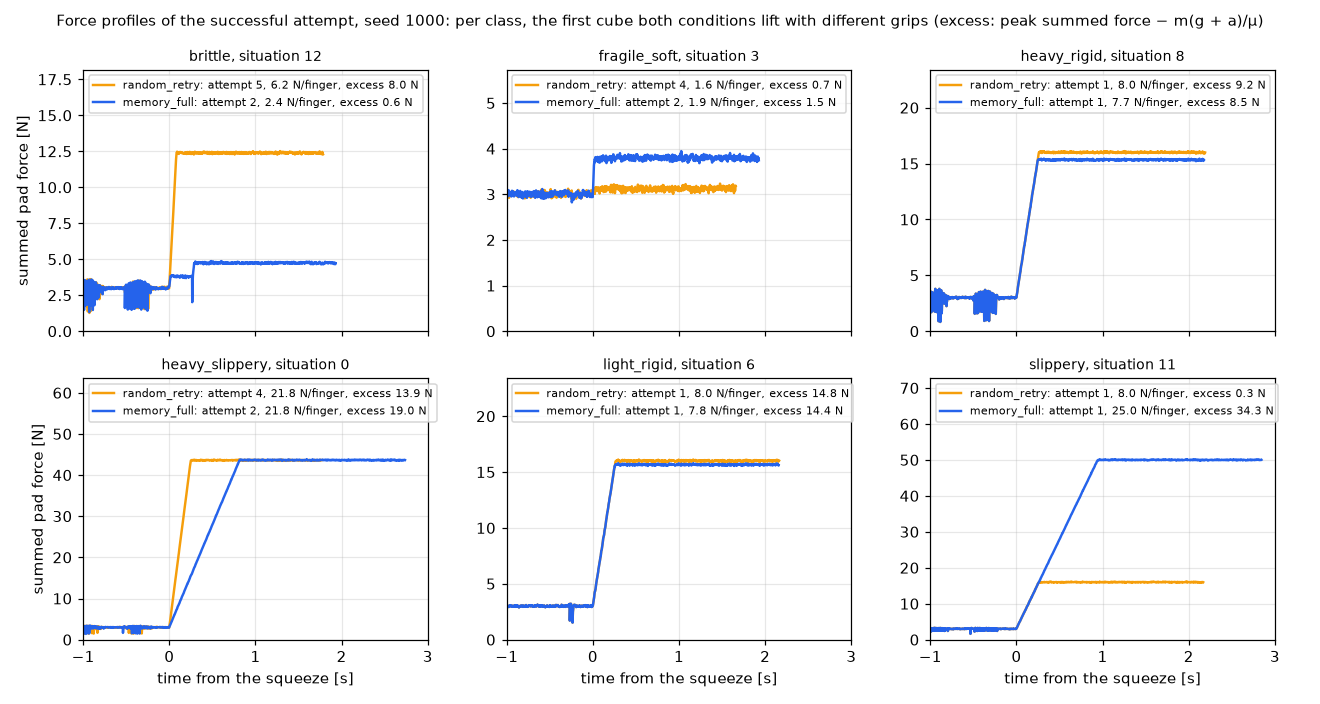
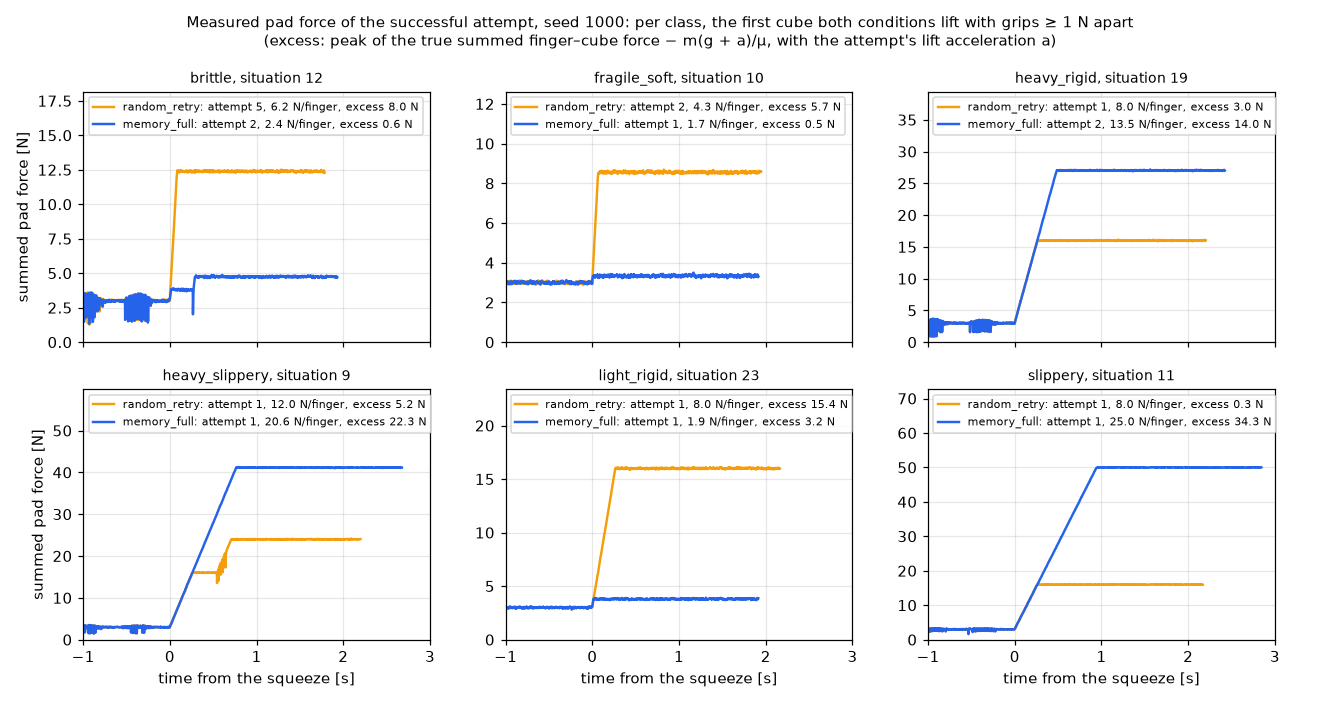
fix: T18 round-1 review: target-1 rule, figure selection, honest wording
Target 1 now needs both bars, as RESULTS §9.1 says (a result between them
is a miss); the frozen benchmark never reached that branch. The force
figure takes cubes whose grips differ by at least 1 N and says its excess
uses the true finger force; RESULTS discloses that the rule came after the
run. Docs: memory_no_probe's first attempt runs naive's θ until a slip
escalation (a correction note, the pre-registration text kept), the
missing bandit_flat row, the bootstrap's independence caveat, the held-out
frozen-vs-fresh gap as not established, and no claim that the bandit
learns. Tests pin the zero-bound verdict, the loose-bar case, and the
frozen scratch bound. All 74 chunks re-ran on this code: results identical.

diff --git a/src/vfa/experiments/run_all.py b/src/vfa/experiments/run_all.py
@@ -46,9 +46,11 @@ situations, mean ± std over seeds) to ``docs/figures/t18_learning_curves.png``.
 **Figures.** ``figures`` re-runs ``random_retry`` and ``memory_full`` on the
 first evaluation seed with every episode saved (``<out>/t18_figures``), checks
 that their records equal the scored chunks' (but for wall times), and draws,
-per class, the first cube that both conditions lift with different grips (else
-the first that both lift): the summed pad force of each one's successful attempt
-(``docs/figures/t18_force_profiles.png``).
+per class, the first cube that both conditions lift with grips at least
+``GRIP_GAP`` apart (else the first that both lift): the measured summed pad force
+of each one's successful attempt (``docs/figures/t18_force_profiles.png``). The
+rule was set after the evaluation run: the first draw (the first cube both lift)
+showed the same default grip twice in most panels.
 
 RuVector mapping: none; this module runs the conditions (ARCHITECTURE §10 maps
 the memory and cognition types they use).
@@ -91,6 +93,7 @@ ABLATIONS: tuple[str, ...] = (
 )
 COMPARED: tuple[str, ...] = ("memory_ctx_only", *ABLATIONS, "bandit", "bandit_flat")
 BOOT = 10_000
+GRIP_GAP = 1.0  # N per finger: the force figure's cubes differ at least this much in grip
 DEADLINE_S = 300.0
 FIGURES = REPO_ROOT / "docs" / "figures"
 CURVES = ("naive", "best_fixed", "random_retry", "memory_full", "memory_ctx_only", "bandit")
@@ -294,7 +297,12 @@ def targets(full: Mapping[str, Any]) -> dict[str, Any]:
         mean("random_retry", "attempts_to_success"),
     )
     return {
-        "success_at_1_late": {"value": late, "bar": bar, "loose_bar": loose, "met": late >= bar},
+        "success_at_1_late": {
+            "value": late,
+            "bar": bar,
+            "loose_bar": loose,
+            "met": late >= max(bar, loose),  # between the two bars is a miss
+        },
         "attempts_to_success": {"value": tries[0], "bar": tries[1], "met": tries[0] < tries[1]},
         "gentler_force": {
             "peak_force_excess": list(excess),
@@ -408,8 +416,11 @@ def force_figure(
         differ = [
             j
             for j in both
-            if wins["memory_full"][j]["theta_final"]["grip_force"]
-            != wins["random_retry"][j]["theta_final"]["grip_force"]
+            if abs(
+                wins["memory_full"][j]["theta_final"]["grip_force"]
+                - wins["random_retry"][j]["theta_final"]["grip_force"]
+            )
+            >= GRIP_GAP
         ]
         i = (differ or both)[0]
         top = 0.0
@@ -442,8 +453,9 @@ def force_figure(
     for ax in axes[:, 0]:
         ax.set_ylabel("summed pad force [N]")
     fig.suptitle(
-        f"Force profiles of the successful attempt, seed {seed}: per class, the first cube both "
-        "conditions lift with different grips (excess: peak summed force − m(g + a)/μ)",
+        f"Measured pad force of the successful attempt, seed {seed}: per class, the first cube "
+        f"both conditions lift with grips ≥ {GRIP_GAP:g} N apart\n(excess: peak of the true summed "
+        "finger–cube force − m(g + a)/μ, with the attempt's lift acceleration a)",
         fontsize=10,
     )
     fig.tight_layout()

diff --git a/tests/test_ablations.py b/tests/test_ablations.py
@@ -110,7 +110,7 @@ def test_without_the_probe_trigger_a_miss_still_bisects_on_own_failures():
     assert decision.theta.grip_force < 8.0 and decision.retrieved == ("own",)
 
 
-def test_a_frozen_memory_takes_no_writes_but_bounds_the_cube_it_holds():
+def test_a_frozen_memory_takes_no_writes_but_bounds_the_cube_it_holds(monkeypatch):
     policy = RetrievalPolicy()
     key = policy.key("key_probe", VIEW)
     store(policy, "used", 1, key, "SUCCESS", 5.0)
@@ -118,15 +118,19 @@ def test_a_frozen_memory_takes_no_writes_but_bounds_the_cube_it_holds():
     before = {rid: r.utility for rid, r in policy.memory.episodic.records.items()}
     policy.begin_situation(2)
     policy.begin_attempt(1)
-    rid = policy.learn_attempt(observed("BREAK", 6.0), ["used"], SkillParams(grip_force=6.0))
+    rid = policy.learn_attempt(observed("BREAK", 4.0), ["used"], SkillParams(grip_force=4.0))
     assert {r: x.utility for r, x in policy.memory.episodic.records.items()} == before
     assert rid not in policy.memory.episodic.records and len(policy.scratch) == 1
     policy.begin_attempt(2)
     decision = policy.propose(key, DEFAULT_THETA)
-    assert decision.theta.grip_force <= 6.0 * 0.9 + 1e-9  # the scratch break bounds the retry
-    policy.end_situation()
-    policy.begin_situation(3)
+    assert rid in decision.retrieved  # the scratch break bounds the retry below 3.6 N
+    assert decision.theta.grip_force <= 4.0 * 0.9 + 1e-9
+    monkeypatch.setattr(policy.library, "consolidate", lambda memory: pytest.fail("consolidated"))
+    for situation in range(3, 13):
+        policy.end_situation()
+        policy.begin_situation(situation)
     assert policy.scratch == [] and policy._own_failures() == []
+    assert len(policy.memory.episodic) == 1
 
 
 def test_the_benchmark_maps_each_ablation_to_one_flag(tmp_path):

diff --git a/tests/test_run_all.py b/tests/test_run_all.py
@@ -52,6 +52,8 @@ def test_bootstrap_is_paired_and_the_verdict_rule():
     assert R.verdict(same) == "no measurable effect"
     mixed = {"success_at_1_late": [0.05, 0.2], "attempts_to_success": [0.1, 0.4]}
     assert R.verdict(mixed) == "mixed"
+    on_zero = {"success_at_1_late": [0.0, 0.025], "attempts_to_success": [-0.0167, 0.0]}
+    assert R.verdict(on_zero) == "no measurable effect"  # a bound at 0 does not exclude 0
 
 
 def test_targets_use_the_like_for_like_bar():
@@ -72,3 +74,7 @@ def test_targets_use_the_like_for_like_bar():
     t = R.targets(full)
     assert not t["success_at_1_late"]["met"]  # between the loose 0.800 and the bar 0.808
     assert t["attempts_to_success"]["met"] and t["gentler_force"]["met"]
+    full["best_fixed"] = stats(0.640, 0.660, 2.7, 5.0, 38.0)  # now the loose bar is higher
+    t = R.targets(full)
+    assert t["success_at_1_late"]["bar"] < 0.805 < t["success_at_1_late"]["loose_bar"]
+    assert not t["success_at_1_late"]["met"]

diff --git a/src/vfa/cognition/system2.py b/src/vfa/cognition/system2.py
@@ -72,7 +72,8 @@ the window stays at the ``SkillParams`` bounds and a retry without a success
 neighbour repeats the default grip; ``probe_trigger=False`` keeps θ at
 ``PROBE`` and makes the whole proposal at ``FAILURE`` instead, from the failed
 attempt's ``key_probe`` (its own failures only, after a probe-less ``MISS``);
-``START`` keeps the default θ as always, so a first attempt equals ``naive``'s.
+``START`` keeps the default θ as always, so a first attempt runs ``naive``'s θ
+until a slip escalation, which raises the grip as in ``memory_full``.
 
 **Frozen memory** (``freeze()``, T18's held-out run): nothing is stored,
 reinforced, or consolidated any more. The attempts at the current cube go to

diff --git a/docs/RESULTS.md b/docs/RESULTS.md
@@ -179,7 +179,7 @@ Memory, the bandits, and the ablations run on the evaluation seeds (1000, 1001, 
 
 - **Runs.** `uv run python -m vfa.experiments.run_all --workers 8` until every chunk is done, then `run_all aggregate` and `run_all figures`. Conditions on `full`: `naive`, `best_fixed`, `random_retry`, `memory_full`, `memory_ctx_only`, the four component ablations, `bandit`, `bandit_flat`.
 - **Held-out run** (`heldout`, seed 2000): `memory_frozen` runs `memory_full` on the warm-up seed 1000 (all 60 situations, unscored), freezes the memory (no store, no reinforcement, no consolidation), and is scored on seed 2000. Each frozen cube's own attempts stay in a per-situation scratch, so its retries are still bounded by its failures. On seed 2000 it is compared with `naive`, `best_fixed`, `random_retry`, and a fresh `memory_full` that learns online.
-- **Ablations** (one `RetrievalPolicy` flag each): `memory_no_reinforce` never reinforces (every utility stays 0.5); `memory_no_semantic` never consolidates and never asks the skill library; `memory_no_failure_bounds` takes no bound from any failure, so a retry without a strong success neighbour repeats the default grip; `memory_no_probe` keeps θ at the probe and makes the whole proposal at the retry start, from the failed attempt's `key_probe`. Its first attempt is `naive`'s by construction (no key before the probe separates the classes, T11), so its success@1 gap is the whole first-attempt gain of the probe decision; its informative number is attempts-to-success.
+- **Ablations** (one `RetrievalPolicy` flag each): `memory_no_reinforce` never reinforces (every utility stays 0.5); `memory_no_semantic` never consolidates and never asks the skill library; `memory_no_failure_bounds` takes no bound from any failure, so a retry without a strong success neighbour repeats the default grip; `memory_no_probe` keeps θ at the probe and makes the whole proposal at the retry start, from the failed attempt's `key_probe`. Its first attempt is `naive`'s by construction (no key before the probe separates the classes, T11), so its success@1 gap is the whole first-attempt gain of the probe decision; its informative number is attempts-to-success. *Correction after the run: the first attempt runs `naive`'s θ, but a slip escalation still raises its grip, as in `memory_full` (25 of 180 first attempts end at a raised grip, 7 of them labelled `SLIP` where `naive` has `DROP`); no first-attempt success differs from `naive`'s.*
 - **Targets** (means over the 3 seeds): (1) `memory_full` success@1 over situations 21–60 ≥ `best_fixed`'s over the same window + 0.15. This is the like-for-like bar of §2. The looser reading (`best_fixed`'s overall success@1 + 0.15) is reported too, and a result between the two counts as a miss. (2) `memory_full` attempts-to-success < `random_retry`'s. (3) `memory_full` peak-force excess or force jerk < `random_retry`'s.
 - **Comparisons with `memory_full`** (the force ablation, the component ablations, the bandits): the per-seed difference (mean ± std) and a paired bootstrap 95 % interval over the 180 situations pooled over seeds (10 000 draws, seed 0; success@1 resamples situations 21–60 only). A component's sentence comes from the success@1 (21–60) and attempts-to-success intervals: removing it makes at least one measurably worse and none better → *it helps*; the reverse → *it hurts*; both → *mixed*; neither → *no measurable effect*. Break rate is reported, not classified.
 - **Regression check.** The code fingerprint changed, so the baselines re-run on `full`; they must reproduce §2 (`naive` success@1 0.639, `best_fixed` 0.650 and 0.658 on 21–60, `random_retry` success@5 0.828). On `quick`, `memory_full`, `memory_ctx_only`, `bandit`, and `bandit_flat` reproduced §6 and §8 exactly on this code.
@@ -202,6 +202,7 @@ Two invocations of `run_all --workers 8` ran the 74 chunks (5 min 33 s and 2 min
 | `memory_no_probe` | 0.639 ± 0.010 | 0.658 ± 0.014 | 1.000 ± 0.000 | 1.39 ± 0.05 | 0.195 ± 0.011 | 8.09 ± 0.39 | 41.0 ± 1.9 |
 | `memory_no_failure_bounds` | 0.683 ± 0.029 | 0.733 ± 0.014 | 0.717 ± 0.029 | 2.48 ± 0.20 | 0.616 ± 0.020 | 9.21 ± 0.28 | 54.8 ± 5.6 |
 | `bandit` | 0.578 ± 0.079 | 0.600 ± 0.050 | 0.950 ± 0.029 | 1.94 ± 0.21 | 0.137 ± 0.023 | 11.31 ± 1.90 | 49.3 ± 2.8 |
+| `bandit_flat` | 0.578 ± 0.048 | 0.533 ± 0.038 | 0.961 ± 0.035 | 1.99 ± 0.04 | 0.205 ± 0.006 | 11.23 ± 2.08 | 55.4 ± 4.1 |
 
 **Targets: all three met.**
 
@@ -211,7 +212,7 @@ Two invocations of `run_all --workers 8` ran the 74 chunks (5 min 33 s and 2 min
 
 ### 9.3 Ablations and the bandits
 
-Difference from `memory_full` (condition − `memory_full`): mean ± std over seeds, then the paired bootstrap 95 % interval over situations. Verdicts follow the rule of §9.1.
+Difference from `memory_full` (condition − `memory_full`): mean ± std over seeds, then the paired bootstrap 95 % interval over situations. Verdicts follow the rule of §9.1. The bootstrap treats situations as independent, but a learning run's situations depend on the ones before, so the intervals are somewhat narrow; every *helps* or *better* verdict also has a per-seed difference of one sign on all 3 seeds.
 
 
 | vs `memory_full` | Δ success@1, 21–60 | Δ attempts-to-success | Δ break rate | verdict |
@@ -227,13 +228,13 @@ Difference from `memory_full` (condition − `memory_full`): mean ± std over se
 - **Force features** (`memory_ctx_only`, the force ablation): they help. With context keys only, success@1 over 21–60 falls by 0.325, to 0.600, under `naive`'s 0.658, and attempts-to-success rises by 0.33.
 - **Reinforcement** (`memory_no_reinforce`, utility fixed at 0.5): no measurable effect. Some θ changed, but success@1 over 21–60 moved by +0.008 [+0.000, +0.025] and attempts-to-success by −0.01 [−0.02, +0.00].
 - **Semantic tier and skill library** (`memory_no_semantic`): no measurable effect. Every outcome in all 180 situations is the same as `memory_full`'s; the records are identical on seeds 1000 and 1002. The skill is asked only when no stored success reaches similarity 0.8, and on these seeds it never changed an outcome.
-- **The probe decision** (`memory_no_probe`): it helps. Without it the first attempt is `naive`'s (success@1 over 21–60 −0.267, to 0.658), and the retries, which still use the failed attempt's force signature, need 0.21 more attempts.
+- **The probe decision** (`memory_no_probe`): it helps. Without it the first attempt runs `naive`'s θ (until a slip escalation) and succeeds exactly where `naive`'s does (success@1 over 21–60 −0.267, to 0.658); the retries, which still use the failed attempt's force signature, need 0.21 more attempts.
 - **Failure bounds** (`memory_no_failure_bounds`): they help. Without them a retry repeats the default grip unless a similar success exists: success@5 falls to 0.717, attempts-to-success rises by 1.29, and the break rate by 0.514.
 - **The bandits.** `memory_full` beats a learner without similarity search: against `bandit`, success@1 over 21–60 is 0.325 higher [0.233, 0.417] and attempts-to-success 0.75 lower [0.56, 0.96]; `bandit_flat` is further behind.
 
 ### 9.4 Held-out run (seed 2000)
 
-`memory_frozen` learned on the 60 situations of seed 1000, then ran the 60 new situations of seed 2000 with no further writes. One seed, so no spread.
+`memory_frozen` learned on the 60 situations of seed 1000, then ran the 60 new situations of seed 2000 with no further writes. One seed, so no spread. No memory or bandit had run on seed 2000 before; only a fixed-θ grid of a T10 review (one attempt per grip) had.
 
 | Held-out (seed 2000) | success@1 | success@1, 21–60 | success@5 | attempts-to-success | break rate |
 |---|---|---|---|---|---|
@@ -244,11 +245,11 @@ Difference from `memory_full` (condition − `memory_full`): mean ± std over se
 | `memory_frozen` | 0.983 | 0.975 | 1.000 | 1.03 | 0.016 |
 
 
-The frozen memory transfers to new cubes: its first attempts succeed in 59 of 60 situations, against 54 for a fresh `memory_full` that starts empty on this seed and 39 for `naive`. At the first attempt the fresh memory fails 4 of 10 `brittle` cubes, 1 `fragile_soft`, and 1 `heavy_slippery`; the frozen memory fails 1 `brittle` cube.
+The frozen memory transfers to new cubes: its first attempts succeed in 59 of 60 situations, against 39 for `naive`, and 54 for a fresh `memory_full` that starts empty on this seed. The gap to the fresh memory is not established: the two differ in 5 situations, all in the frozen memory's favour (exact McNemar p = 0.0625, one seed). At the first attempt the fresh memory fails 4 of 10 `brittle` cubes, 1 `fragile_soft`, and 1 `heavy_slippery`; the frozen memory fails 1 `brittle` cube.
 
 ### 9.5 Figures
 
-`run_all aggregate` draws the learning curves; `run_all figures` re-ran seed 1000's `random_retry` and `memory_full` with every episode saved, checked that their records equal the scored chunks' (but for wall times), and drew the force profiles.
+`run_all aggregate` draws the learning curves; `run_all figures` re-ran seed 1000's `random_retry` and `memory_full` with every episode saved, checked that their records equal the scored chunks' (but for wall times), and drew the force profiles. The figure's selection rule (per class, the first cube both lift with grips at least 1 N apart) was set after the evaluation run: the first draw (the first cube both lift) showed the same default grip twice in most panels.
 
 ![Learning curves on the evaluation seeds](figures/t18_learning_curves.png)
 
@@ -260,6 +261,6 @@ The frozen memory transfers to new cubes: its first attempts succeed in 59 of 60
 
 **Where memory still fails.** 26 of its 180 first attempts failed: 13 `brittle` breaks, 7 `fragile_soft` breaks, 5 `heavy_slippery` under-grips, and 1 `heavy_rigid` slip. In situations 21–60, 9 remain: 6 `brittle` breaks, 2 `fragile_soft` breaks, and 1 `heavy_slippery` drop. `brittle` is the weak class: memory lifts 17 of 30 `brittle` cubes at the first attempt, while `best_fixed` (5 N) lifts all 30. A likely cause, not measured here: a `brittle` cube's heft lies between the two heavy classes' (§3), so a heavy neighbour can pass the 0.8 threshold and set a grip that breaks it. 5 of the 7 `fragile_soft` breaks are in the first 11 situations, before memory holds a similar success.
 
-**Gentler, but not with less force.** `memory_full`'s force jerk (36.7 N/s) is lower than every baseline's and both bandits', but its peak-force excess is higher than `random_retry`'s (10.48 against 7.78 N). The excess comes from the slippery classes: 18.3 against 4.4 N on `slippery` and 16.0 against 7.7 N on `heavy_slippery`. A likely cause, not measured here: both classes slide in the probe (§3), so a `slippery` cube's strong neighbours include `heavy_slippery` successes at high grips. Memory then lifts the cube at the first attempt, with more force than it needs (the `slippery` panel above: 25 N per finger, an excess of 34.3 N). The realistic pad noise adds about 19 N/s to every jerk value in quadrature.
+**Gentler, but not with less force.** `memory_full`'s force jerk (36.7 N/s) is lower than `random_retry`'s on every seed and close to `best_fixed`'s (38.3), but its peak-force excess is higher than `random_retry`'s (10.48 against 7.78 N). The excess comes from the slippery classes: 18.3 against 4.4 N on `slippery` and 16.0 against 7.7 N on `heavy_slippery`. A likely cause, not measured here: both classes slide in the probe (§3), so a `slippery` cube's strong neighbours include `heavy_slippery` successes at high grips. Memory then lifts the cube at the first attempt, with more force than it needs (the `slippery` panel above: 25 N per finger, an excess of 34.3 N). The force figure shows both sides: memory grips the breakable and light cubes far more gently (`light_rigid` 1.9 against 8.0 N per finger) and the heavy and slippery ones harder. The realistic pad noise adds about 19 N/s to every jerk value in quadrature.
 
-**The bandit learns, but without similarity search it stays far behind.** `bandit` lifts 0.578 of the cubes at the first attempt and needs 1.94 attempts (`random_retry` 2.21, `memory_full` 1.19). It breaks less than `random_retry` (0.137 against 0.468) but drops more (0.320 against 0.111).
+**Without similarity search the bandit stays far behind.** Its first attempts do not improve measurably over the run: 0.533 on situations 1–20 and 0.600 on 21–60, a gain like `naive`'s on the same cubes (0.600 and 0.658). `bandit` lifts 0.578 of the cubes at the first attempt and needs 1.94 attempts (`random_retry` 2.21, `memory_full` 1.19). It breaks less than `random_retry` (0.137 against 0.468) but drops more (0.320 against 0.111).

diff --git a/docs/ARCHITECTURE.md b/docs/ARCHITECTURE.md
@@ -343,7 +343,7 @@ On a retry of the *same* situation, the failed attempt has similarity ≈ 1, so 
 
 **As built in T17a** (`vfa/experiments/bandit.py`; `configs/bandit.toml`, outside the frozen hash). The bandit is a System 2 policy in `CognitiveCore`, so it sees the probe at the same point as memory and runs `naive` θ before it. The grips are log-spaced over the bounds (0.5–25 N), because the classes' best calibration grips span 1–12 N; the three closing speeds come from the task's default 8 × 3 grid, although after the probe T08 found the same peak and no break at 0.05 and 0.5 m/s. The bucket edges are terciles of the calibration fixture. An attempt that reached its probe credits its arm before the next draw; an attempt that ended before it credits nothing. One seed runs in order, with a generator seeded by the benchmark seed. Numbers: `docs/RESULTS.md` §8.
 
-**As built in T18** (`vfa/experiments/run_all.py`; four `RetrievalPolicy` flags and `freeze()`). One resumable pool runs every condition on the evaluation seeds and the held-out run; the targets, the held-out design, and the verdict rule were committed before the first evaluation run (RESULTS §9.1). A component's verdict comes from paired bootstrap intervals over situations, not from the spread of 3 seeds. `memory_no_probe` makes the whole proposal at the retry start, so its first attempt is `naive`'s. A frozen memory keeps the current cube's attempts in a per-situation scratch, so its retries are still bounded. On the evaluation seeds `memory_full` meets all three targets; the force features, the probe decision, and the failure bounds each help, while reinforcement and the skill library show no measurable effect (RESULTS §9).
+**As built in T18** (`vfa/experiments/run_all.py`; four `RetrievalPolicy` flags and `freeze()`). One resumable pool runs every condition on the evaluation seeds and the held-out run; the targets, the held-out design, and the verdict rule were committed before the first evaluation run (RESULTS §9.1). A component's verdict comes from paired bootstrap intervals over situations, not from the spread of 3 seeds. `memory_no_probe` makes the whole proposal at the retry start, so its first attempt runs `naive`'s θ until a slip escalation. A frozen memory keeps the current cube's attempts in a per-situation scratch, so its retries are still bounded. On the evaluation seeds `memory_full` meets all three targets; the force features, the probe decision, and the failure bounds each help, while reinforcement and the skill library show no measurable effect (RESULTS §9).
 
 ---
 
